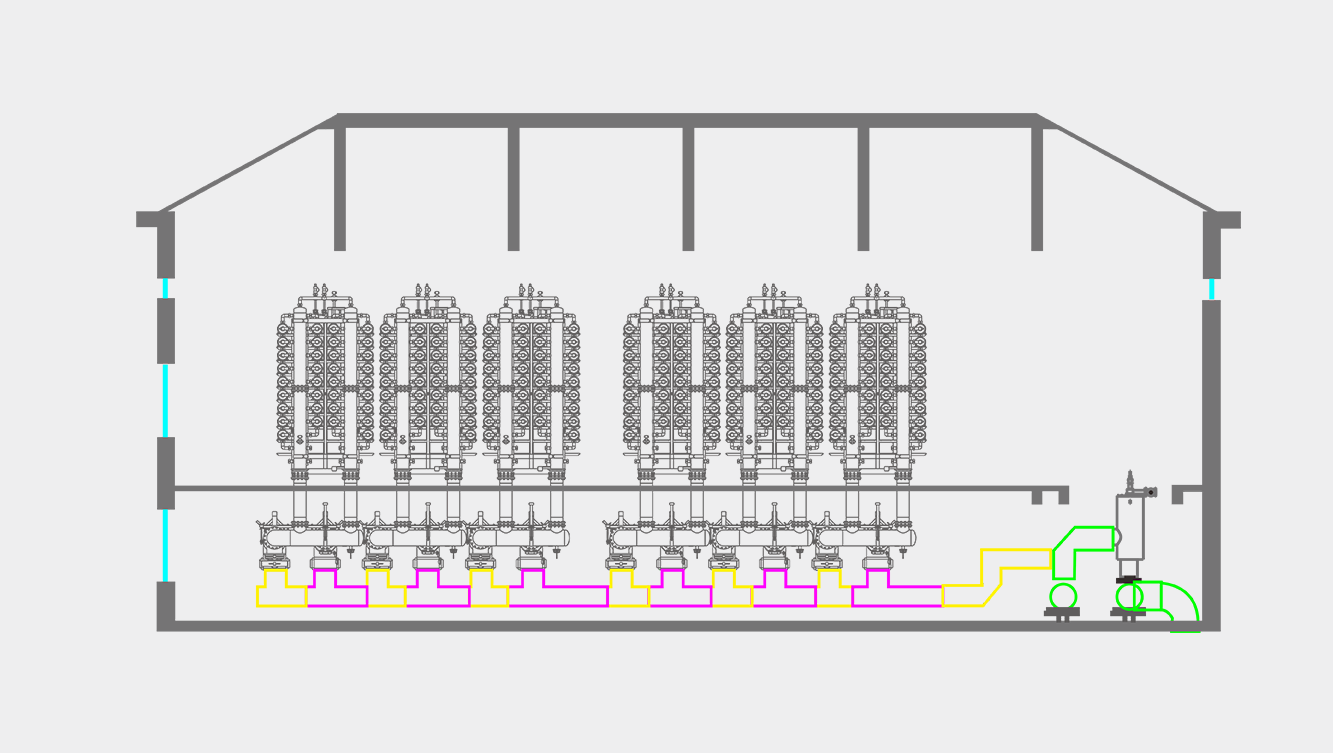
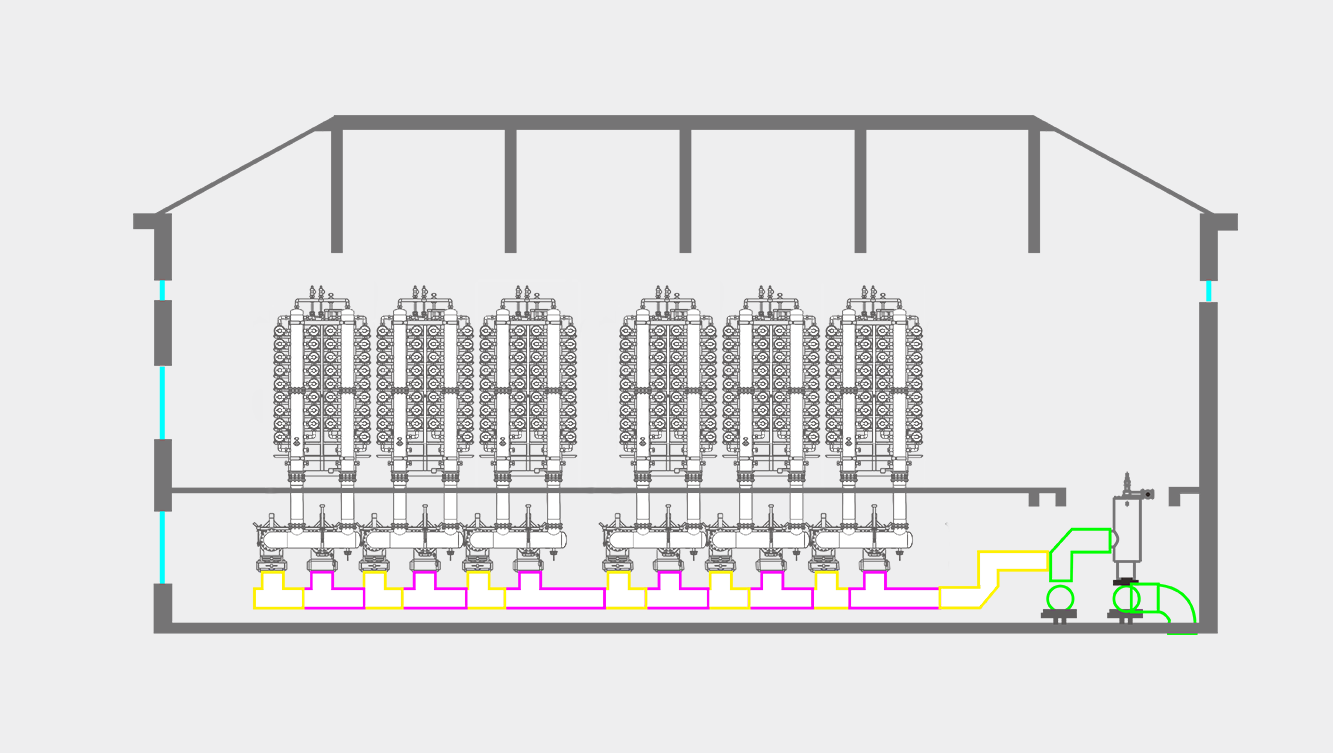
膜车间底图修改。

diff --git a/WebRoot/js/mc.js b/WebRoot/js/mc.js
@@ -8,7 +8,7 @@ oCanvas.domReady(function () {
 
     var canvas = oCanvas.create({
         canvas: "#canvas_QS_mc",
-        background: "#eeeeef",
+        background: "#ccc",
         fps: 25
     });
     var width_all=30,
@@ -97,7 +97,7 @@ oCanvas.domReady(function () {
         y: 0,
 //        height:1,
 //        width:1,
-        image: "image/mc_test2.png"
+        image: "image/mc_a.png"
     });
     canvas.addChild(fg2);
 
@@ -106,7 +106,7 @@ oCanvas.domReady(function () {
         y: 0,
 //        height:100,
 //        width:100,
-        image: "image/mc_test.png"
+        image: "image/mc.png"
     });
     canvas.addChild(fg);
     
